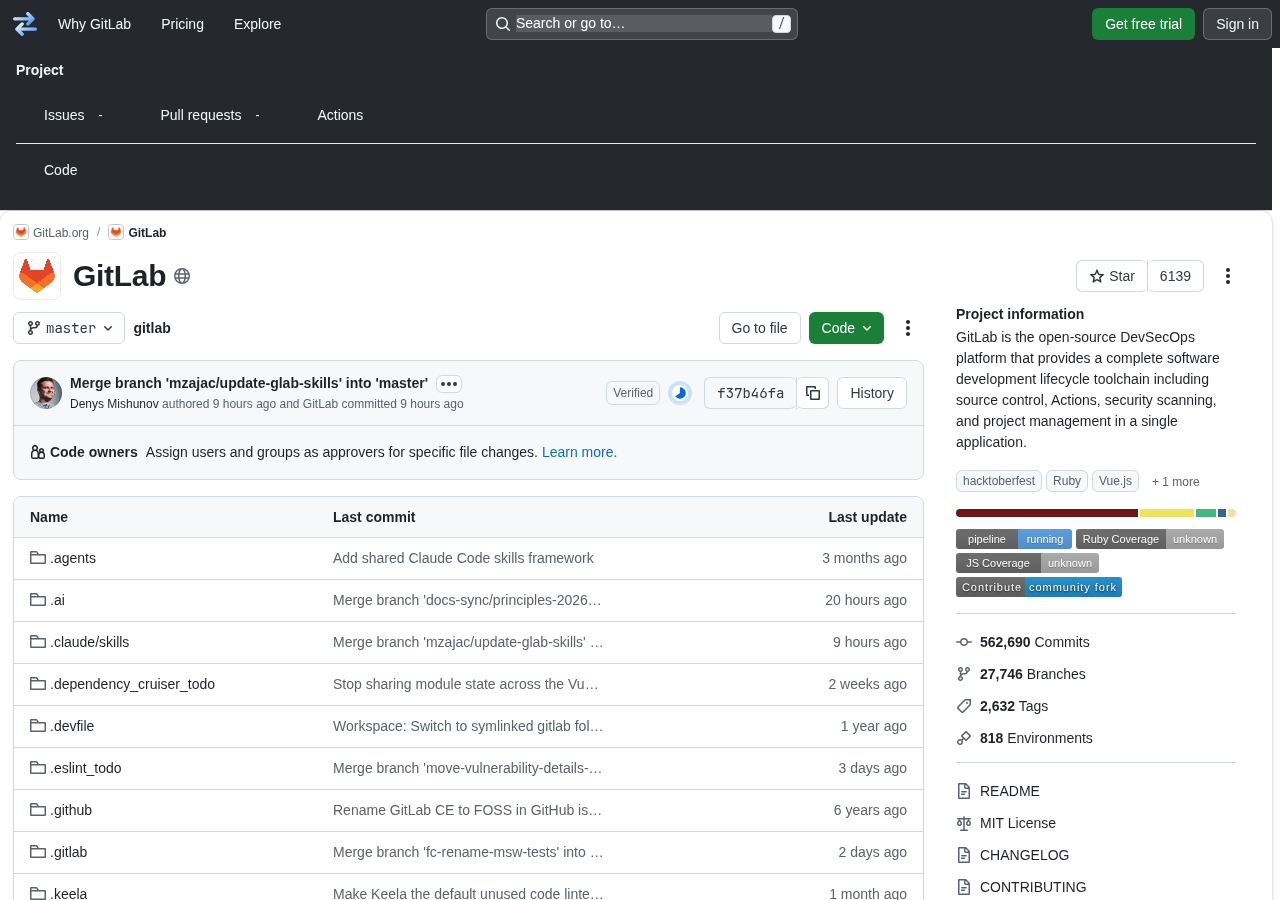
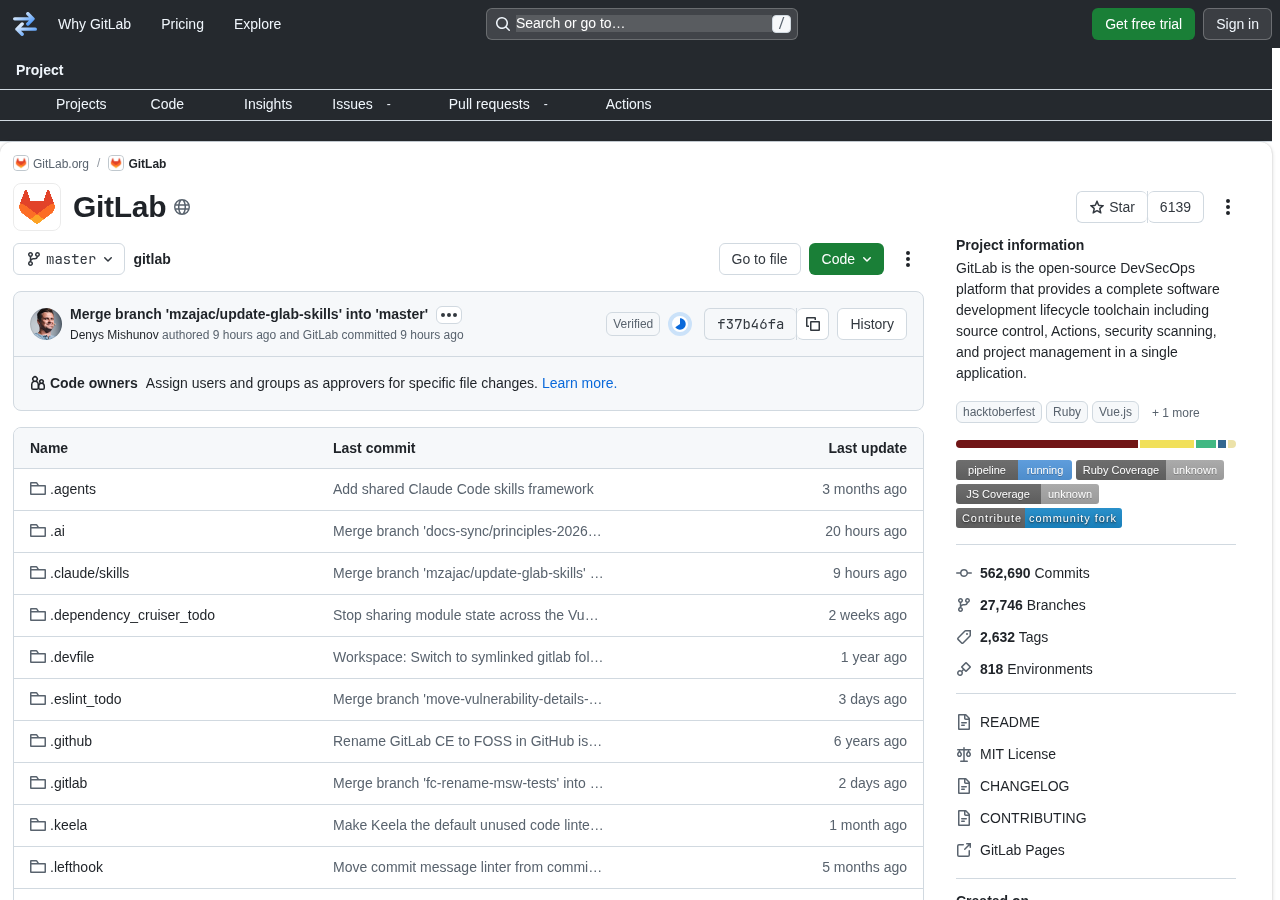
feat(ux): one aligned row for the GitHub-skin menu, with GitHub's options
- GitLab splits the same items across several stacked blocks (static, pinned,
  groups), so the kept items landed on two rows with Code alone on the second.
  The blocks are flattened so the menu is one row, ordered as GitHub's is.
- The whitelist now matches a label exactly or with a counter, so "Actions
  analytics" and "Code review analytics" no longer pass as "Actions"/"Code".
  That also lets GitLab's Issue boards (→ Projects) and Insights reach the bar.

Live result: Projects · Code · Insights · Issues · Pull requests · Actions on
one row. 121 unit tests pass; web-ext lint clean.

(The matching fix in the hide pass lives in src/content/ux.js, which also
carries in-progress clone-hardening work, so it is left uncommitted.)

diff --git a/src/themes/ux-nav.css b/src/themes/ux-nav.css
@@ -734,3 +734,37 @@ html.gs-theme-github .super-sidebar [data-testid="menu-section-button"] {
 html.gs-theme-github .super-sidebar [data-testid="menu-section"] {
   display: contents !important;
 }
+
+/* GitHub's bar is one row of tabs; GitLab splits the same items across several
+   stacked blocks (static, pinned, groups), so the kept items landed on two rows
+   with Code alone on the second. Flatten those blocks and order them as GitHub
+   does: Code, then Issues, Pull requests, Actions. */
+html.gs-theme-github .super-sidebar [data-testid="nav-container"] {
+  display: flex !important;
+  flex-direction: row !important;
+  flex-wrap: wrap !important;
+  align-items: center !important;
+}
+
+html.gs-theme-github .super-sidebar [data-testid="nav-container"] > div,
+html.gs-theme-github .super-sidebar [data-testid="nav-container"] > div > div,
+html.gs-theme-github
+  .super-sidebar
+  [data-testid="nav-container"]
+  > div
+  > div
+  > div {
+  display: contents !important;
+}
+
+html.gs-theme-github .super-sidebar ul[data-testid="static-items-section"] {
+  order: 0 !important;
+}
+
+html.gs-theme-github .super-sidebar ul[data-testid="non-static-items-section"] {
+  order: 1 !important;
+}
+
+html.gs-theme-github .super-sidebar ul[data-testid="pinned-nav-items"] {
+  order: 2 !important;
+}

diff --git a/src/lib/ux.js b/src/lib/ux.js
@@ -438,12 +438,17 @@
 
   /**
    * Is this nav item one the applied product's own project menu shows? True when
-   * the theme has no whitelist (then everything is kept).
+   * the theme has no whitelist (then everything is kept). A label may carry a
+   * counter ("Pull requests -", "Pull requests 387") but not extra words, so
+   * "Actions analytics" does not count as "Actions".
    */
   function navKeep(label, theme) {
     const list = NAV_KEEP[theme];
     if (!list) return true;
-    return list.some((key) => labelMatches(label, key));
+    return list.some((key) => {
+      if (label === key) return true;
+      return new RegExp(`^${escapeRe(key)}\\s+[\\d,.-]+$`).test(label);
+    });
   }
 
   /**
